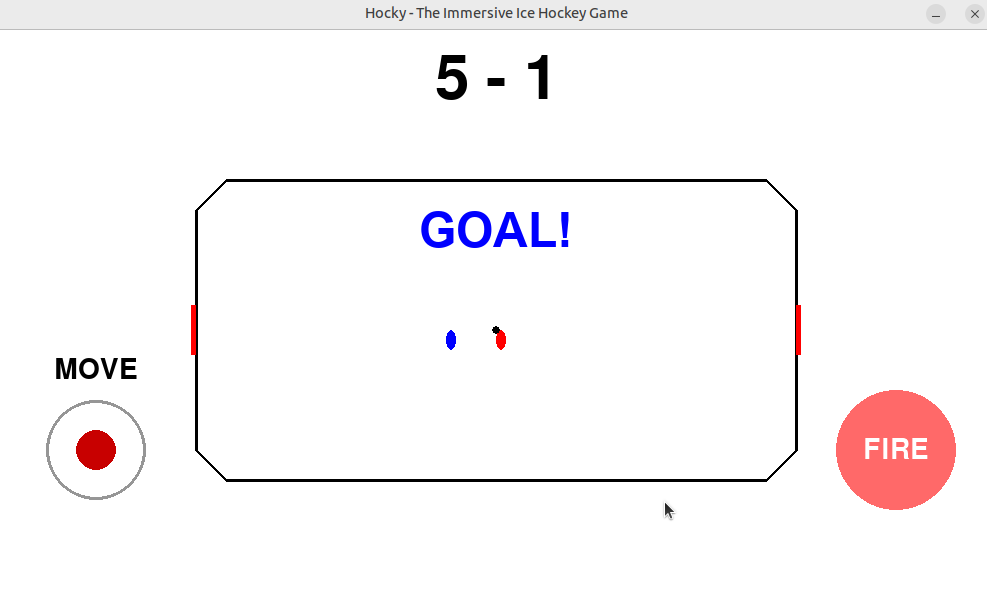
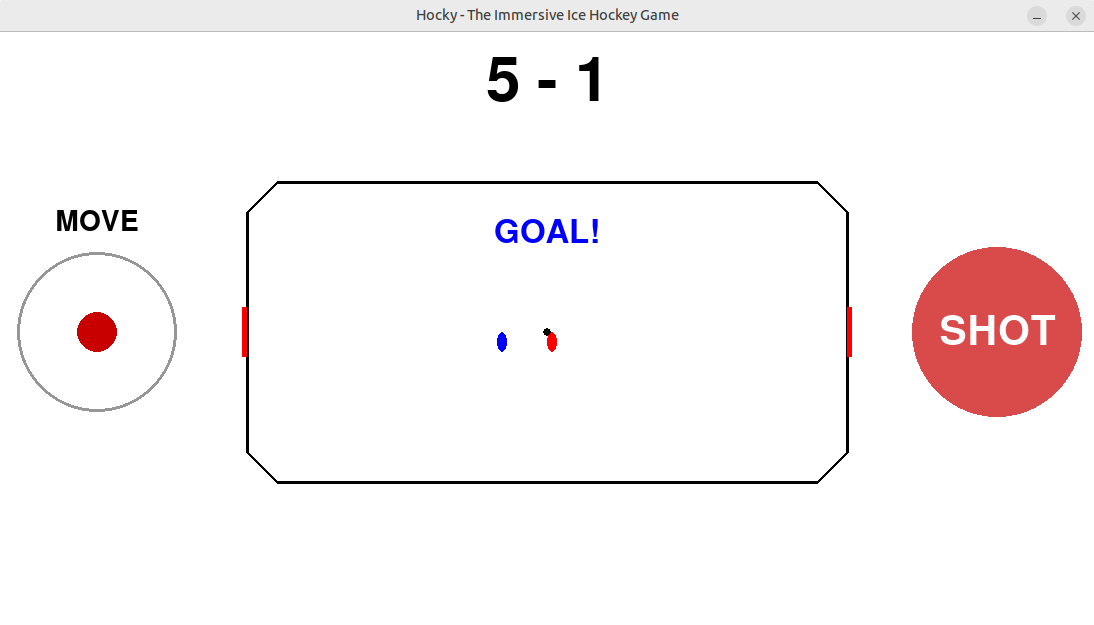
Fix mobile joystick logic and center controls for Safari/pygbag

diff --git a/main.py b/main.py
@@ -8,10 +8,13 @@ import sys
 import asyncio  # for WebAssembly with pygbag
 from time import time
 
+# VScode complaint fix
+screen: pygame.Surface = None
+
 # Constants
-SCREEN_WIDTH, SCREEN_HEIGHT = 800, 400
+SCREEN_WIDTH, SCREEN_HEIGHT = 900, 400  # Width increased for control clearance
 RINK_WIDTH, RINK_HEIGHT = 600, 300
-WIDTH_MARGIN = SCREEN_WIDTH - RINK_WIDTH
+WIDTH_MARGIN = SCREEN_WIDTH - RINK_WIDTH  # Now 300px total (150px per side)
 HEIGHT_MARGIN = SCREEN_HEIGHT - RINK_HEIGHT
 PLAYER_RADIUS = 5
 PUCK_RADIUS = 4
@@ -88,18 +91,34 @@ class VirtualJoystick:
         self.vector = [0, 0]  # This will replace your arrow keys
 
     def handle_event(self, event):
-        # 1. Get the correct position regardless of input type
+        # 1. REPLACE your coordinate logic with this:
+        # This gets the REAL size of the canvas as Safari sees it
+        curr_w, curr_h = pygame.display.get_surface().get_size()
+
         pos = None
         if event.type in (pygame.FINGERDOWN, pygame.FINGERMOTION, pygame.FINGERUP):
-            # Scale normalized 0.0-1.0 to actual pixels
-            pos = (event.x * SCREEN_WIDTH, event.y * SCREEN_HEIGHT)
-        elif hasattr(event, 'pos'):
+            # Use the real canvas size, not the constant SCREEN_WIDTH
+            pos = (event.x * curr_w, event.y * curr_h)
+        elif hasattr(event, "pos"):
             pos = event.pos
 
         # 2. Logic for DOWN
         if event.type in (pygame.MOUSEBUTTONDOWN, pygame.FINGERDOWN) and pos:
-            if math.hypot(pos[0] - self.base_pos[0], pos[1] - self.base_pos[1]) < self.radius * 2:
-                self.active = True
+            # OPTION A: Sticky (User must touch near the circle)
+            # if math.hypot(pos[0] - self.base_pos[0], pos[1] - self.base_pos[1]) < self.radius * 2:
+            # 2. Logic for DOWN
+            if event.type in (pygame.MOUSEBUTTONDOWN, pygame.FINGERDOWN) and pos:
+                # Use "Option A": Check if the touch is near the fixed joystick position
+                # We use radius * 2 to give the user a larger "hit area" for their thumb
+                if math.hypot(pos[0] - self.base_pos[0], pos[1] - self.base_pos[1]) < self.radius * 2:
+                    self.active = True
+                    # REMOVED: self.base_pos = pos (This was the cause of the jumping)
+            # OPTION B: Dynamic (Better for mobile)
+            # If touch is on the left 40% of the screen, snap joystick to finger
+            # if pos[0] < curr_w * 0.4:
+            #    self.active = True
+            #    self.base_pos = pos # This moves the base to where the finger is
+            #    self.knob_pos = pos
 
         # 3. Logic for UP
         elif event.type in (pygame.MOUSEBUTTONUP, pygame.FINGERUP):
@@ -109,18 +128,19 @@ class VirtualJoystick:
 
         # 4. Logic for MOTION
         elif event.type in (pygame.MOUSEMOTION, pygame.FINGERMOTION) and self.active and pos:
+            # Calculate distance relative to the CURRENT base_pos set in loop
             dx = pos[0] - self.base_pos[0]
             dy = pos[1] - self.base_pos[1]
             dist = math.hypot(dx, dy)
-
             angle = math.atan2(dy, dx)
+
+            # CLAMPING: This keeps the knob inside your 80px radius
             clamped_dist = min(dist, self.radius)
-            self.knob_pos = (self.base_pos[0] + math.cos(angle) * clamped_dist, 
-                             self.base_pos[1] + math.sin(angle) * clamped_dist)
 
-            self.vector = [math.cos(angle) * (clamped_dist / self.radius), 
-                           math.sin(angle) * (clamped_dist / self.radius)]
+            self.knob_pos = (self.base_pos[0] + math.cos(angle) * clamped_dist, self.base_pos[1] + math.sin(angle) * clamped_dist)
 
+            # Normalized vector for player movement (0.0 to 1.0)
+            self.vector = [math.cos(angle) * (clamped_dist / self.radius), math.sin(angle) * (clamped_dist / self.radius)]
 
     def draw(self, screen, font, text=None):
         # 1. Draw the base circle (the grey socket)
@@ -142,13 +162,16 @@ pygame.init()
 
 async def main():  # async for WebAssembly
 
+    global screen
+    font = pygame.font.SysFont("Arial", 24)  # font init
+
     # Face the music!
     pygame.mixer.init()
     pygame.mixer.music.load("music/hocky.mp3")
     pygame.mixer.music.play()
 
     # Define constants
-    SCREEN_WIDTH, SCREEN_HEIGHT = 1000, 600
+    SCREEN_WIDTH, SCREEN_HEIGHT = 1100, 600
     RINK_WIDTH, RINK_HEIGHT = 600, 300
     OFFSET_X = (SCREEN_WIDTH - RINK_WIDTH) // 2
     WIDTH_MARGIN, HEIGHT_MARGIN = SCREEN_WIDTH - RINK_WIDTH, SCREEN_HEIGHT - RINK_HEIGHT
@@ -209,26 +232,61 @@ async def main():  # async for WebAssembly
     show_goal_text = False
     goal_text_timer = 0
 
-    joystick = VirtualJoystick(150, 450, JOYSTICK_RADIUS)
+    # 1. Get the actual rendered dimensions (critical for pygbag/Safari)
+    sw, sh = pygame.display.get_surface().get_size()
+    v_center = sh // 2
 
-    # Position the fire button in the bottom right
-    fire_button_pos = (SCREEN_WIDTH - 120, SCREEN_HEIGHT - 120)
-    fire_button_radius = 60
-    fire_button_color = (255, 0, 0, 100)  # Semi-transparent Red
+    # 2. Setup Joystick (Left side)
+    # Moving to 80px from edge to clear the rink margin (150px)
+    JOYSTICK_RADIUS = 80
+    joystick = VirtualJoystick(80, v_center, JOYSTICK_RADIUS)
 
-    # Game loop
+    # 3. Setup Fire Button (Right side)
+    fire_button_radius = 85
+    # sw - 80 keeps it symmetrical with the joystick
+    fire_button_pos = (sw - 80, v_center)
+    fire_button_color = (255, 0, 0, 150)
+
+    # --- Setup Fire Button Surfaces once ---
+    btn_radius = 85
+    btn_label = "SHOT"
+
+    # NORMAL State
+    fire_surf_normal = pygame.Surface((btn_radius * 2, btn_radius * 2), pygame.SRCALPHA)
+    pygame.draw.circle(fire_surf_normal, (200, 0, 0, 180), (btn_radius, btn_radius), btn_radius)
+
+    # PRESSED State
+    fire_surf_pressed = pygame.Surface((btn_radius * 2, btn_radius * 2), pygame.SRCALPHA)
+    pygame.draw.circle(fire_surf_pressed, (255, 200, 0, 220), (btn_radius, btn_radius), btn_radius - 5)
+
+    ui_font = pygame.font.SysFont("Arial", 60, bold=True)  # Increased size
+    btn_label = "SHOT"
+    txt_surf = ui_font.render(btn_label, True, (255, 255, 255))
+    txt_rect = txt_surf.get_rect(center=(btn_radius, btn_radius))
+    fire_surf_normal.blit(txt_surf, txt_rect)
+    fire_surf_pressed.blit(txt_surf, txt_rect)
+
+    is_firing = False
     running = True
+
     while running:
-        # Get live screen dimensions every frame for WASM/Mobile safety
+        # 1. Get live dimensions
         sw, sh = screen.get_size()
+        v_center = sh // 2  # This is the "Safe Zone" for mobile thumbs
+
+        # 2. Update Rink Offsets (Centers the ice)
         OFFSET_X = (sw - RINK_WIDTH) // 2
-        OFFSET_Y = (sh - RINK_HEIGHT) // 2  # Center it vertically too
+        OFFSET_Y = (sh - RINK_HEIGHT) // 2
 
-        # Calculate SAFE positions (180px up from bottom to avoid browser bars)
-        JOY_POS = (100, sh - 180)
-        FIRE_POS = (sw - 100, sh - 180)
+        # Change 75 to 100 to nudge them away from the screen edges
+        # This keeps them centered in the 150px side gutters
+        JOYSTICK_X = 100
+        FIRE_X = sw - 100
 
-        # Update your joystick's internal position to match
+        JOY_POS = (JOYSTICK_X, v_center)
+        FIRE_POS = (FIRE_X, v_center)
+
+        # 4. Sync Joystick
         joystick.base_pos = JOY_POS
         if not joystick.active:
             joystick.knob_pos = JOY_POS
@@ -263,16 +321,23 @@ async def main():  # async for WebAssembly
         # For now, let's say a touch on the right 20% of screen = Space
         touch_fire = False
         for event in event_list:
-            if event.type == pygame.FINGERDOWN or event.type == pygame.MOUSEBUTTONDOWN:
-                # Use a distance check (like we did for the joystick)
-                f_pos = getattr(event, "pos", (0, 0))
-                # For pygbag/mobile, multiply normalized coords by screen size
+            # 2. Process SHOT Button
+            if event.type in (pygame.FINGERDOWN, pygame.MOUSEBUTTONDOWN):
+                # Scale touch to the current physical surface size
                 if hasattr(event, "x"):
-                    f_pos = (event.x * SCREEN_WIDTH, event.y * SCREEN_HEIGHT)
+                    f_pos = (event.x * sw, event.y * sh)
+                else:
+                    f_pos = event.pos
 
-                dist = math.hypot(f_pos[0] - fire_button_pos[0], f_pos[1] - fire_button_pos[1])
-                if dist < fire_button_radius:
+                # Distance check against the dynamic FIRE_POS from your loop
+                dist = math.hypot(f_pos[0] - FIRE_POS[0], f_pos[1] - FIRE_POS[1])
+
+                if dist < btn_radius:
                     mobile_fire_trigger = True
+                    is_firing = True  # Yellow light!
+
+            if event.type in (pygame.FINGERUP, pygame.MOUSEBUTTONUP):
+                is_firing = False
 
         if move_left and not move_up and not move_down:
             player_pos[0] -= player_speed
@@ -663,7 +728,7 @@ async def main():  # async for WebAssembly
             screen.fill(WHITE)
             # Draw the rectangle
             text2 = font2.render("HOCKY", True, BLACK)
-            text3 = font.render("Hit SPACE bar or punch FIRE to start!", True, BLACK)
+            text3 = font.render("Hit SPACE bar or tap SHOT to start!", True, BLACK)
             rect = pygame.Rect(rect_x, rect_y, 50, 50)
             prompt_rect = text3.get_rect(center=(SCREEN_WIDTH / 2, SCREEN_HEIGHT - 20))
             screen.blit(text2, rect)
@@ -679,7 +744,7 @@ async def main():  # async for WebAssembly
             fire_surf = pygame.Surface((btn_radius * 2, btn_radius * 2), pygame.SRCALPHA)
             pygame.draw.circle(fire_surf, (255, 0, 0, 180), (btn_radius, btn_radius), btn_radius)
 
-            txt_surf = font.render("FIRE", True, (255, 255, 255))
+            txt_surf = font.render("SHOT", True, (255, 255, 255))
             txt_rect = txt_surf.get_rect(center=(btn_radius, btn_radius))
             fire_surf.blit(txt_surf, txt_rect)
 
@@ -702,24 +767,29 @@ async def main():  # async for WebAssembly
         # Puck
         pygame.draw.circle(screen, BLACK, (int(puck_pos[0] + OFFSET_X), int(puck_pos[1] + OFFSET_Y)), PUCK_RADIUS)
 
-        # --- DRAW VIRTUAL CONTROLS ---
-        # 1. Draw Joystick (The class now handles the circle, knob, and "MOVE" text)
+        # --- Inside the Game Loop ---
+        sw, sh = screen.get_size()
+        v_center = sh // 2
+        # Rink edges relative to the center of the screen
+        rink_edge_left = (sw - RINK_WIDTH) // 2
+        rink_edge_right = (sw + RINK_WIDTH) // 2
+
+        # Push to 100 px from edges to clear the 600px rink
+        joystick.base_pos = (100, v_center)
+        FIRE_POS = (sw - 100, v_center)
+
+        # Ensure the knob doesn't "ghost" when the finger is lifted
+        if not joystick.active:
+            joystick.knob_pos = joystick.base_pos
+
+        # 2. Draw Joystick
         joystick.draw(screen, font, "MOVE")
 
-        # 2. Draw Fire Button
-        btn_radius = 60
-        fire_surf = pygame.Surface((btn_radius * 2, btn_radius * 2), pygame.SRCALPHA)
-        pygame.draw.circle(fire_surf, (255, 0, 0, 150), (btn_radius, btn_radius), btn_radius)
+        # Choose surface based on if it's currently pressed
+        current_surf = fire_surf_pressed if is_firing else fire_surf_normal
 
-        btn_label = "FIRE"
-
-        # Now render it
-        txt_surf = font.render(btn_label, True, (255, 255, 255))
-        txt_rect = txt_surf.get_rect(center=(btn_radius, btn_radius))
-        fire_surf.blit(txt_surf, txt_rect)
-
-        # Blit centered on the FIRE_POS
-        screen.blit(fire_surf, (FIRE_POS[0] - btn_radius, FIRE_POS[1] - btn_radius))
+        # Blit centered on FIRE_POS
+        screen.blit(current_surf, (FIRE_POS[0] - btn_radius, FIRE_POS[1] - btn_radius))
 
         # Update the display
         pygame.display.flip()
